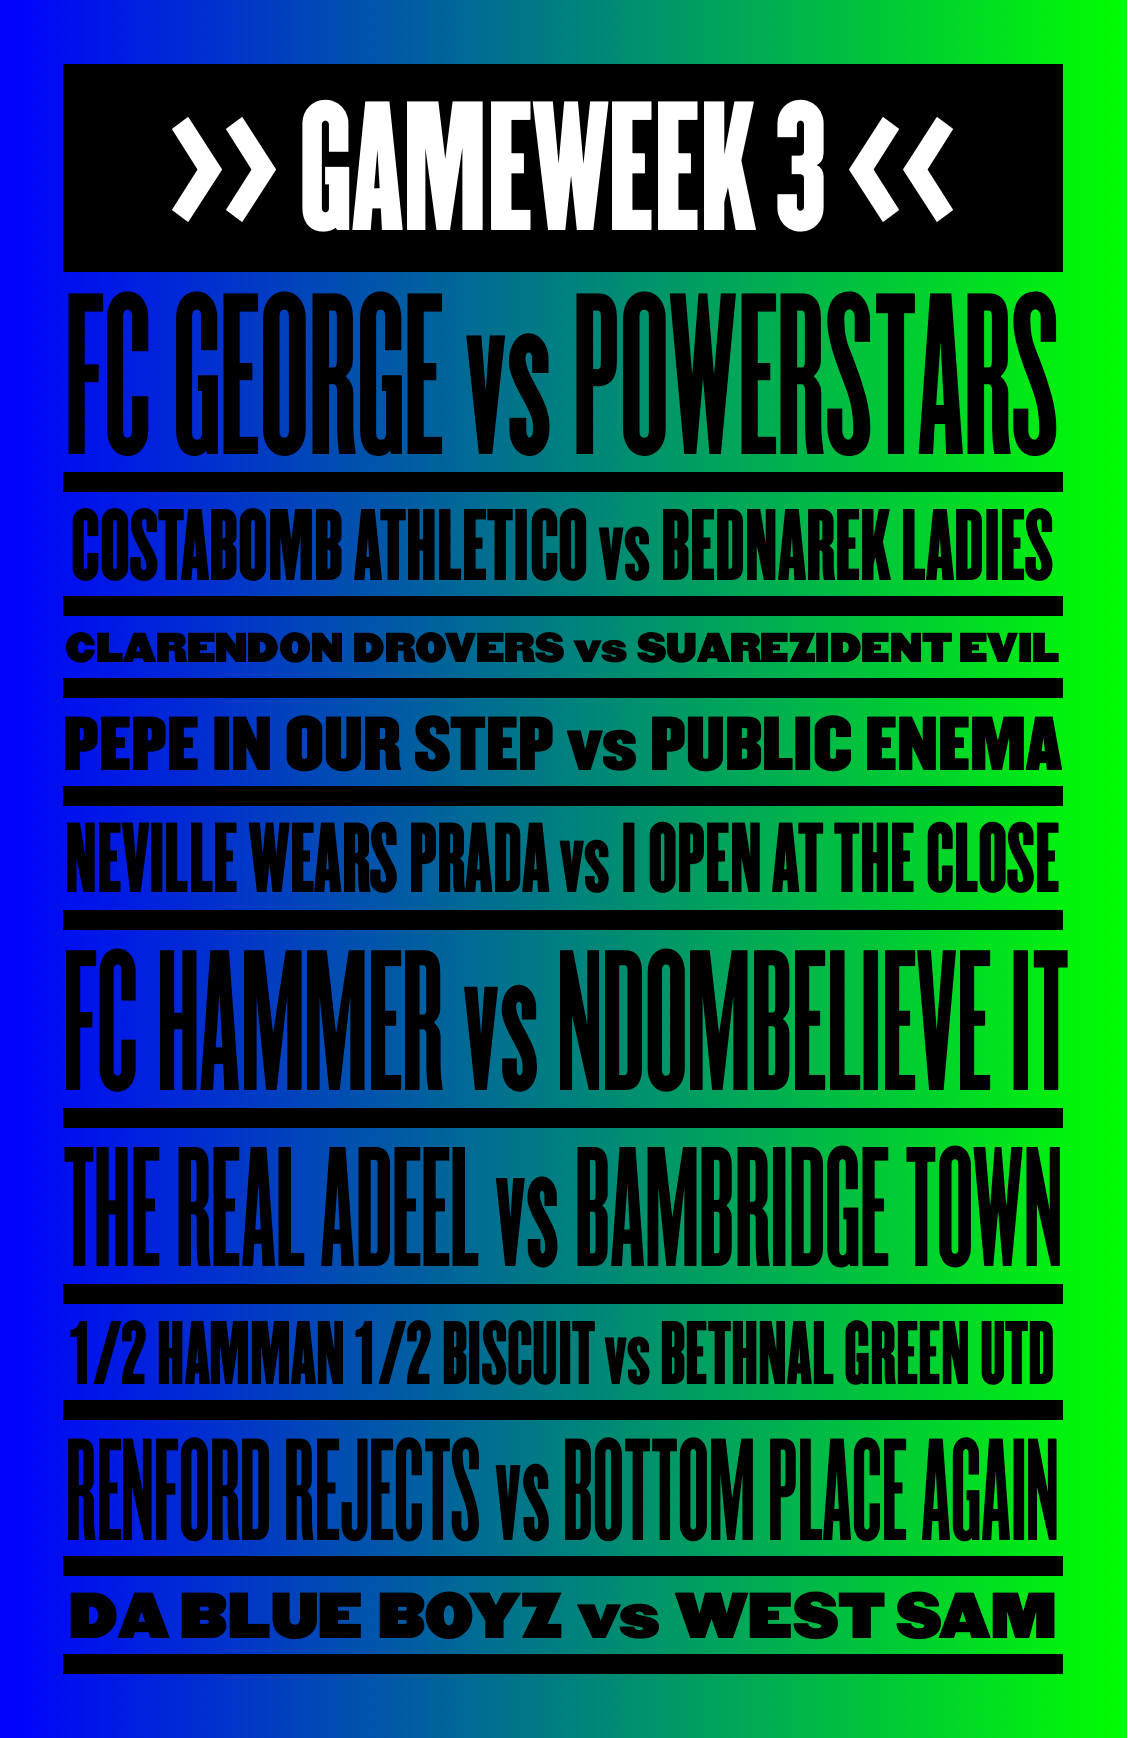
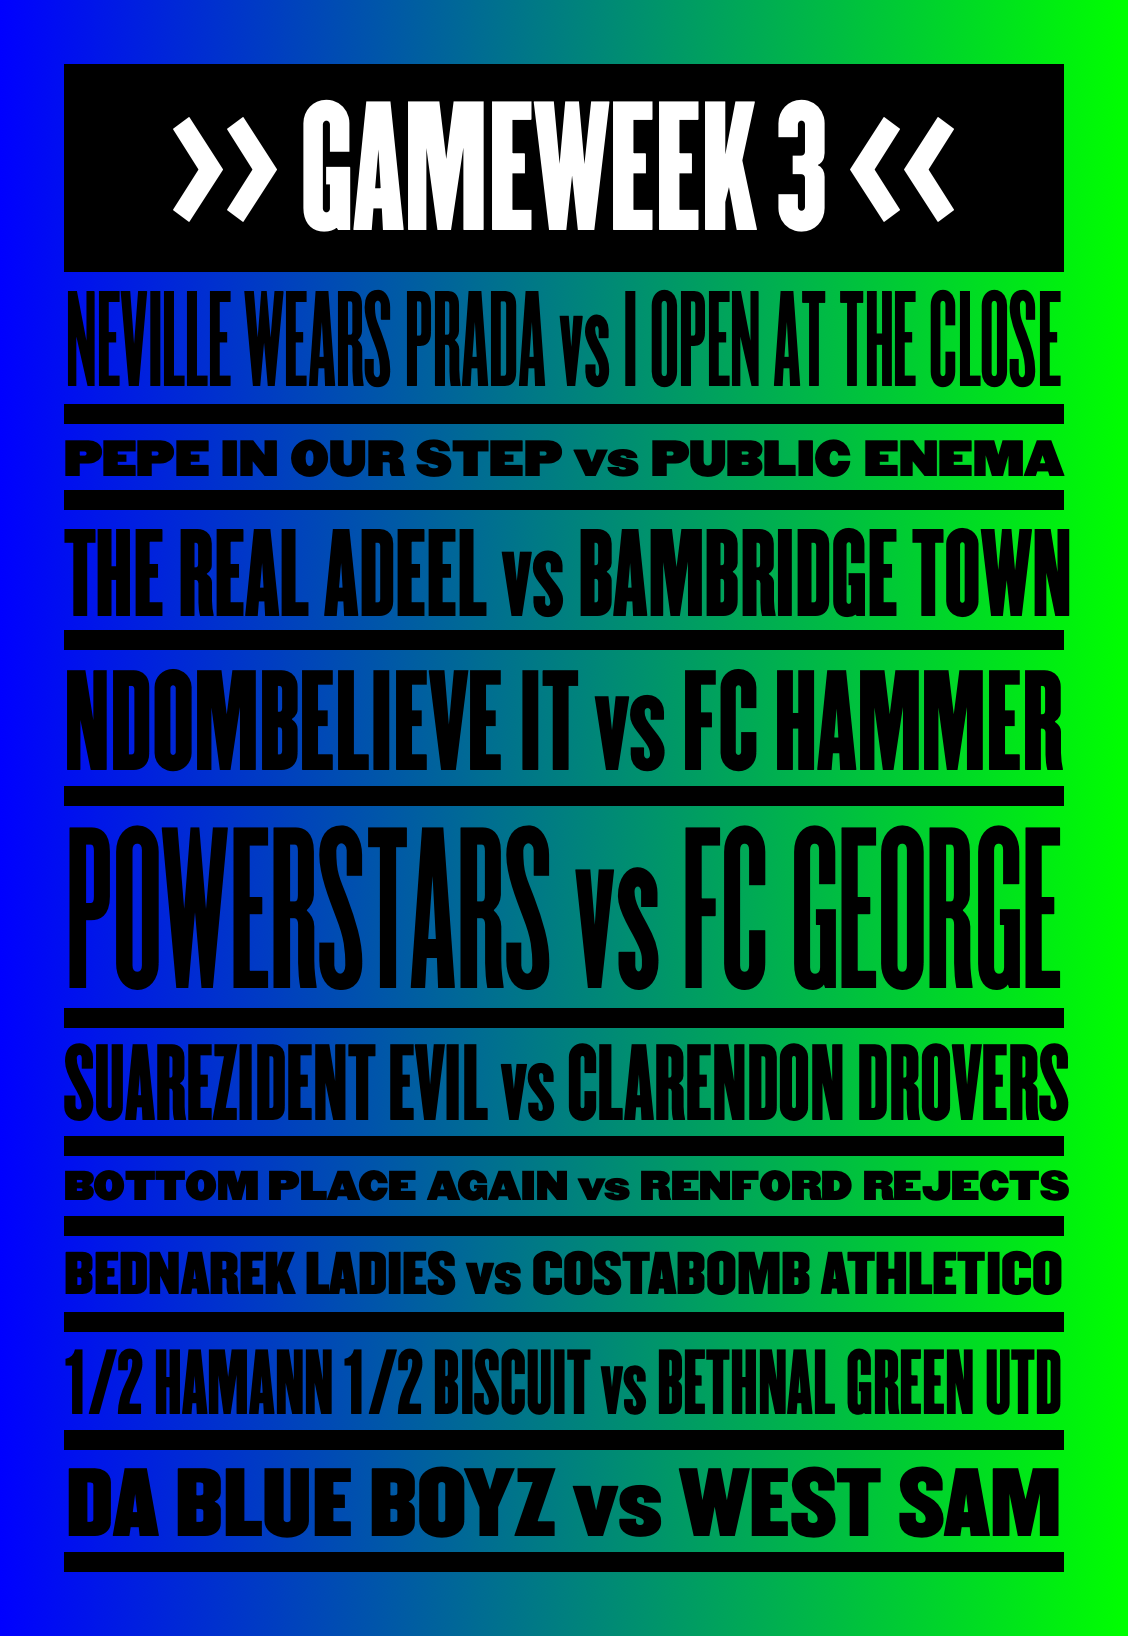
created fixtures for gw3-6

diff --git a/dynamic-asset-generators/fixtures.html b/dynamic-asset-generators/fixtures.html
@@ -117,7 +117,7 @@
                 
                 console.log(json);
                 
-                var gameweek = 3;   // Manually set gameweek to display
+                var gameweek = 5;   // Manually set gameweek to display
                 
                 /* 
                 gameweek = prompt("Enter gameweek");
